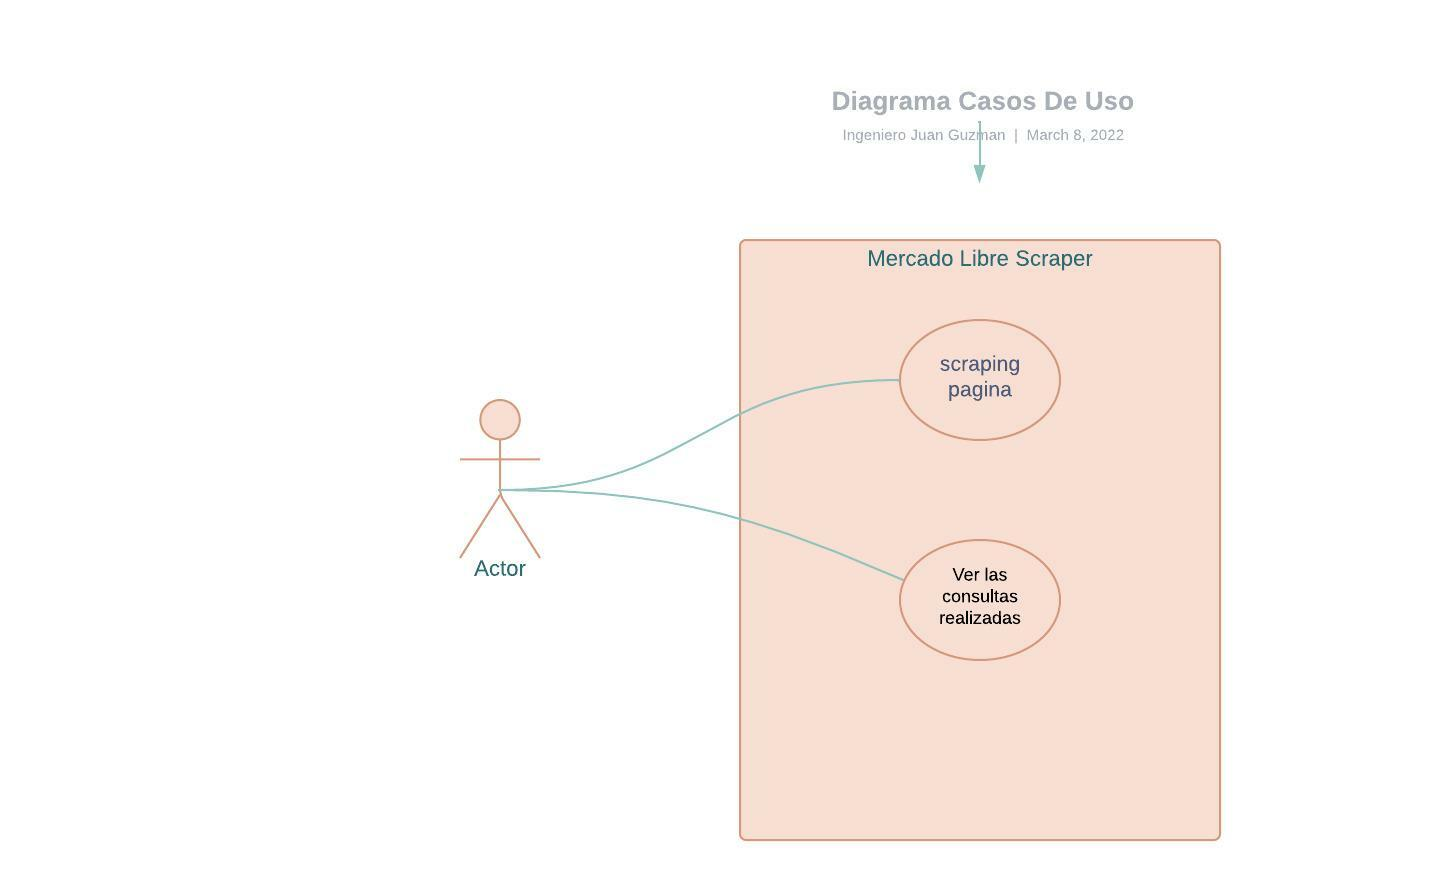
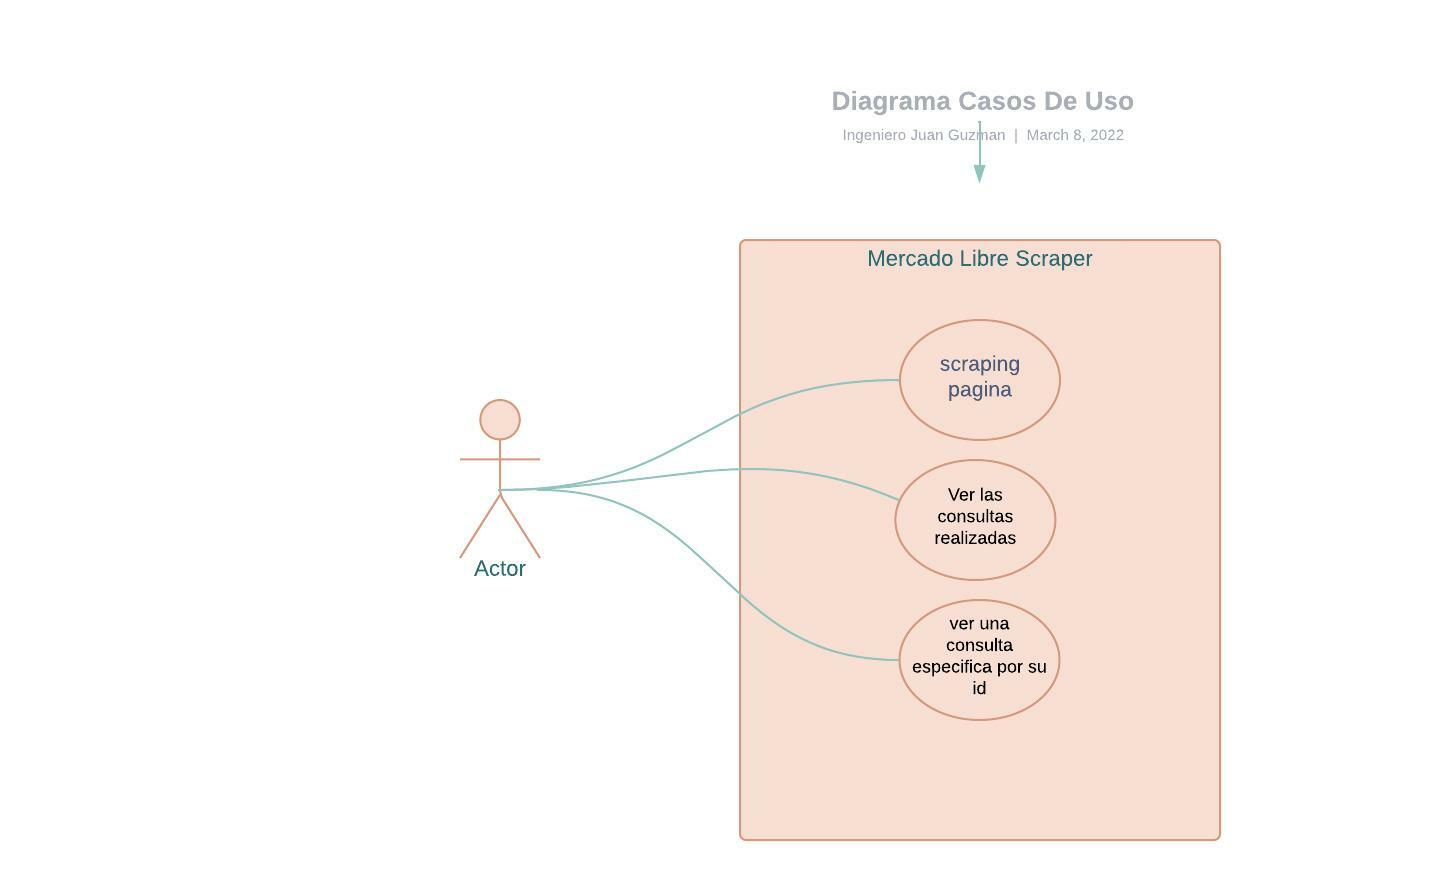
consulta de los items, add swagger html

diff --git a/src/index.js b/src/index.js
@@ -3,13 +3,21 @@ const ScrapingController = require("./controllers/scrapingHttp.controller");
 const ConsultaController = require("./controllers/consultaHttp.controler");
 
 const app = express();
+app.use(morgan("dev"));
+// app.use(express.static('src/public' ));
+app.use(bodyparser.json({ limit: "50mb" }));
+// app.use(bodyParser.json({ limit: '50mb' }));
+app.use(bodyparser.urlencoded({ limit: "50mb", extended: true }));
+// app.use(cors());
+app.use(formidable.parse({ keepExtensions: true }));
 
 //Configuraciones
 app.set("port", process.env.PORT || 8080);
 app.set("json spaces", 2);
 
 app.post("/scraping", ScrapingController);
-app.get("/scraping", ConsultaController);
+app.get("/scraping", ConsultaController.consultasGet);
+app.get("/items", ConsultaController.itemsGet);
 //Iniciando el servidor, escuchando...
 app.listen(app.get("port"), () => {
     console.log(`Server listening on port ${app.get("port")}`);

diff --git a/src/controllers/consultaHttp.controler.js b/src/controllers/consultaHttp.controler.js
@@ -1,6 +1,8 @@
 const consDAO = require("../dataSources/consultas.datasource");
 
-const consultaController = async(req, res) => {
+const consultaController = {};
+
+consultaController.consultasGet = async(req, res) => {
     console.log("consulta de datos");
     // res.status(200).send({ resp: "exelente" });
 
@@ -10,6 +12,18 @@ const consultaController = async(req, res) => {
             console.log("respuesta");
             console.log(consulta);
             res.status(200).send(consulta);
+        }
+    });
+};
+
+consultaController.itemsGet = async(req, res) => {
+    let id = req.query.id;
+    // console.log(req);
+    // console.log(req.query.id);
+    await consDAO.getItems(id, (err, items) => {
+        if (err) throw err;
+        else {
+            res.status(200).send(items);
         }
     });
 };

diff --git a/src/dataSources/consultas.datasource.js b/src/dataSources/consultas.datasource.js
@@ -27,4 +27,14 @@ consDAO.getConsultas = async(callback) => {
     });
 };
 
+consDAO.getItems = async(id, callback) => {
+    console.log(id);
+    ConsModel.findById(id, (err, items) => {
+        if (err) throw err;
+        else {
+            callback(null, items);
+        }
+    });
+};
+
 module.exports = consDAO;
